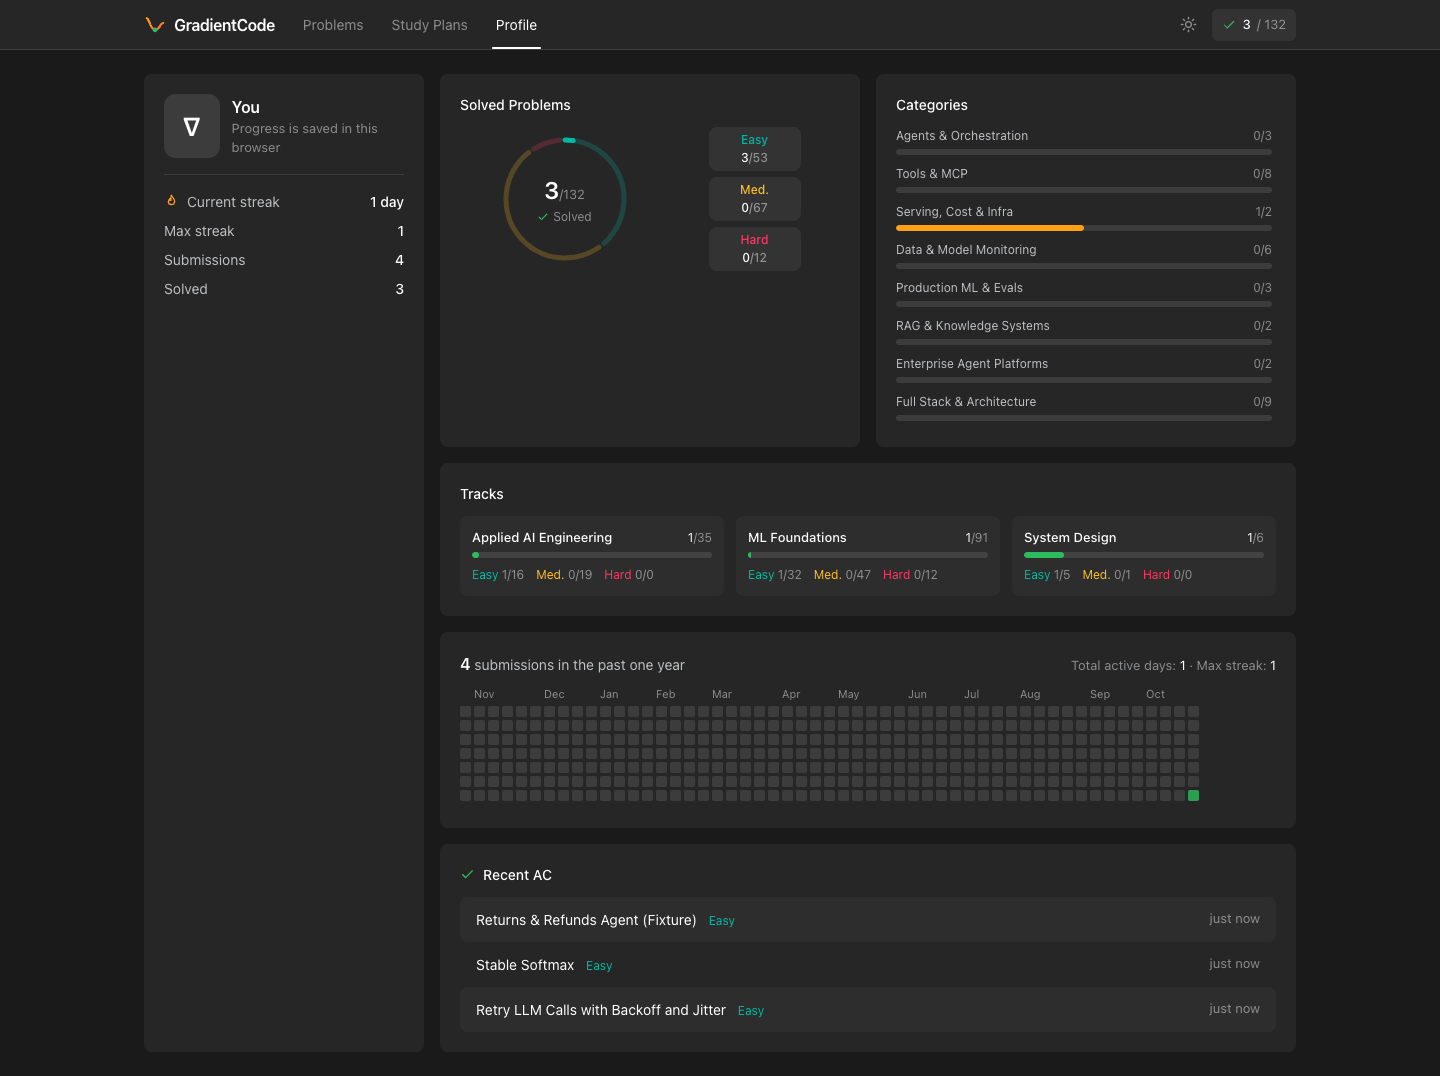
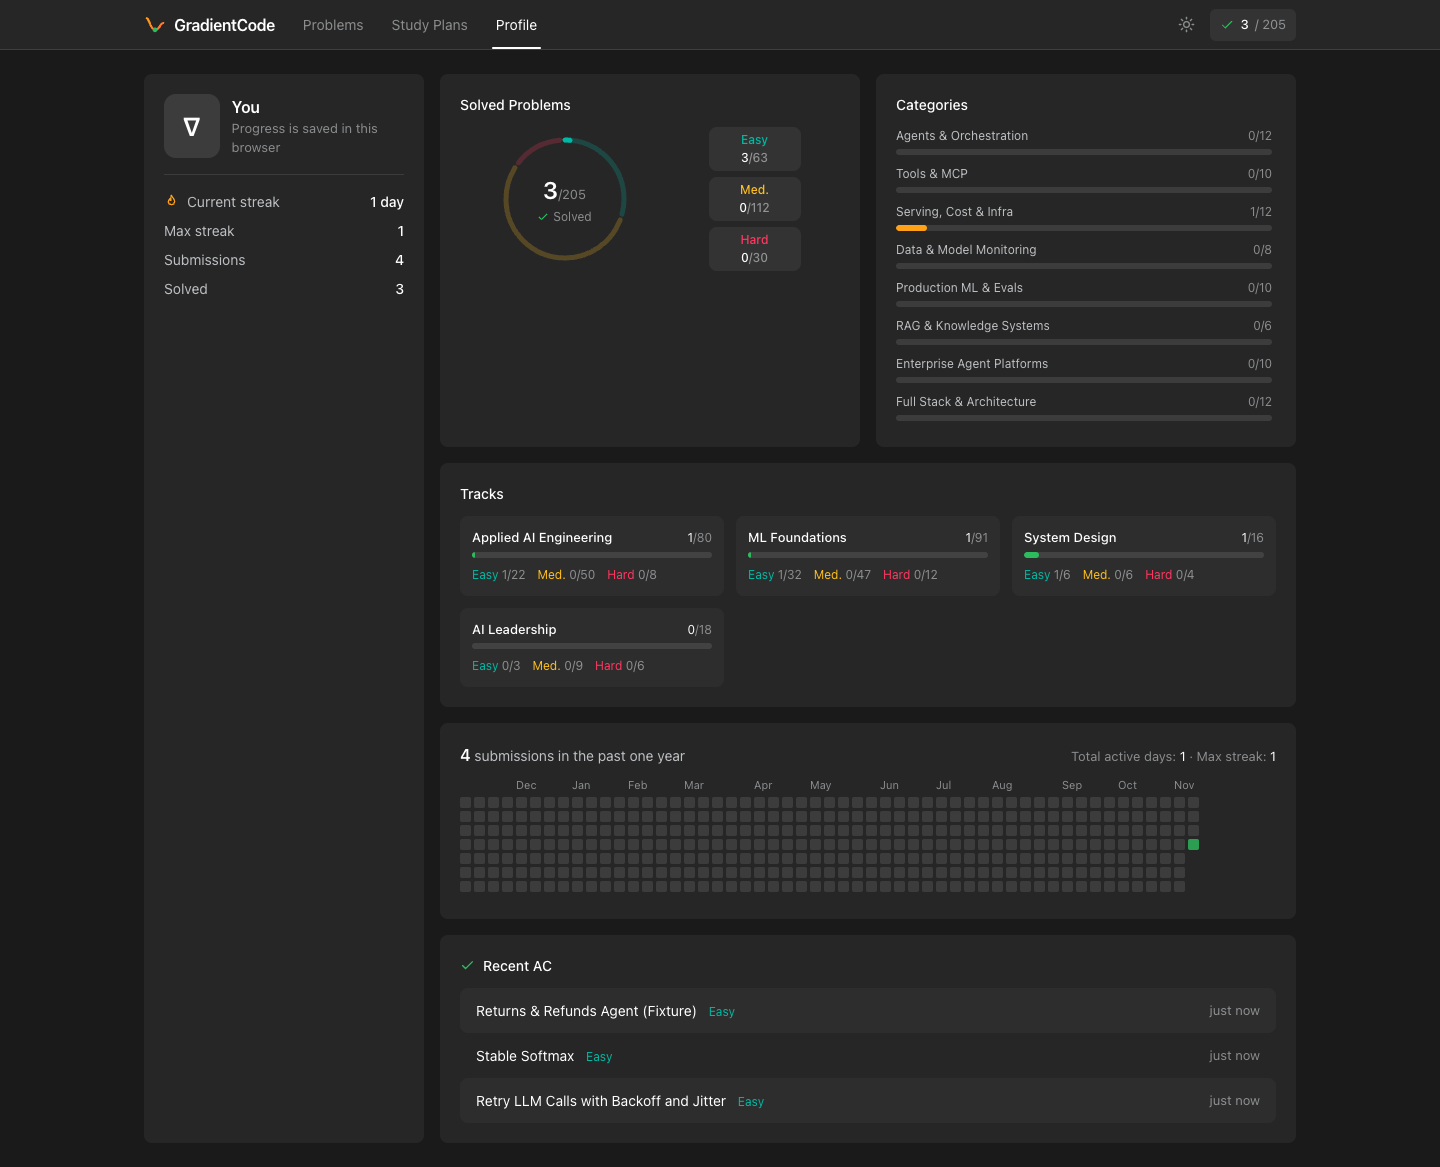
AI Leadership track, phase 3: study plans, catalog, docs, e2e and screenshots
- study-plans.json: Principal / AI Architect Loop (strategy, governance, hard designs) and
  Director / Executive Loop (all 18 cases plus designs 207, 209, 211, 214)
- problems/CATALOG_LEADERSHIP.md; README.md and web/README.md cover the fourth track
- e2e: leadership case (ten sections, pillar names, reveal, 70% complete, solved in list)
  and both study plans; screenshots for the track list, case, reveal and director plan

diff --git a/web/e2e/app.spec.ts b/web/e2e/app.spec.ts
@@ -203,3 +203,54 @@ test("Detailed Explanation tab renders the walkthrough with math", async ({ page
   await expect(page.getByRole("heading", { name: "Detailed Explanation" })).toBeVisible();
   await expect(page.getByRole("heading", { name: "Build Order" })).toBeVisible();
 });
+
+test("AI Leadership track: ten sections, leadership pillars, self-score and complete", async ({ page }) => {
+  const rubric = JSON.parse(readFileSync(resolve(ROOT, "problems/0301-build-buy-fine-tune/rubric.json"), "utf8"));
+  await page.goto("/");
+  await page.getByTestId("track-leadership").click();
+  const rows = page.getByTestId("problem-row");
+  await expect(rows.first()).toBeVisible();
+  // Every leadership case is in the 301-399 range.
+  for (const title of await rows.allTextContents()) expect(title).toMatch(/\b3\d\d\. /);
+
+  await page.goto("/problems/build-buy-fine-tune");
+  await expect(page.getByTestId("problem-title")).toContainText("Build vs Buy vs Fine-tune");
+  await expect(page.locator(".monaco-editor")).toHaveCount(0);
+  await expect(page.getByText("AI Leadership", { exact: true }).first()).toBeVisible();
+  for (const [key, name] of [["A", "Frame"], ["B", "Decide"], ["C", "Execute"], ["D", "Land"]])
+    await expect(page.getByTestId(`pillar-${key}`)).toContainText(name);
+  await expect(page.getByTestId("answer-1")).toHaveAttribute("placeholder", rubric.sections[0].prompt);
+  await expect(page.getByTestId("section-10")).toContainText("Communication");
+  await expect(page.getByTestId("section-11")).toHaveCount(0);
+
+  await page.getByTestId("answer-1").fill("Ship to renewing enterprise customers by month 6 without breaking their contracts.");
+  await page.getByTestId("tab-answer").click();
+  await page.getByTestId("reveal").click();
+  await page.getByTestId("reveal-yes").click();
+  await expect(page.getByTestId("model-answer")).toContainText("1. Situation");
+  await expect(page.getByTestId("model-answer")).toContainText("10. Communication");
+
+  // 70% of criteria completes the case.
+  const all = rubric.sections.flatMap((s: { n: number; criteria: string[] }) => s.criteria.map((_, i) => [s.n, i]));
+  const need = Math.ceil(all.length * 0.7);
+  for (const [n, i] of all.slice(0, need)) await page.getByTestId(`criterion-${n}-${i}`).check();
+  await page.getByTestId("mark-complete").click();
+  await expect(page.getByTestId("complete-note")).toContainText("Marked complete");
+
+  await page.getByTestId("problem-list-link").click();
+  await page.getByTestId("track-leadership").click();
+  const row = page.getByTestId("problem-row").filter({ hasText: "Build vs Buy vs Fine-tune" });
+  await expect(row.getByLabel("Solved")).toBeVisible();
+});
+
+test("leadership study plans list their cases", async ({ page }) => {
+  for (const [id, title, slugs] of [
+    ["principal-architect-loop", "Principal / AI Architect Loop", 13],
+    ["director-executive-loop", "Director / Executive Loop", 22],
+  ] as const) {
+    await page.goto(`/study-plans/${id}`);
+    await expect(page.getByTestId("plan-title")).toContainText(title);
+    await expect(page.getByTestId("plan-section").first()).toBeVisible();
+    await expect(page.locator('[data-testid="plan-section"] a[href*="/problems/"]')).toHaveCount(slugs);
+  }
+});

diff --git a/web/e2e/screenshots.spec.ts b/web/e2e/screenshots.spec.ts
@@ -82,6 +82,23 @@ test("capture", async ({ page, context }) => {
   await page.getByTestId("mark-complete").click();
   await page.screenshot({ path: `${OUT}/design-after-reveal.png` });
 
+  // AI Leadership: the track list, the pilot case before and after reveal, and the director plan.
+  await page.goto("/");
+  await page.getByTestId("track-leadership").click();
+  await expect(page.getByTestId("problem-row").first()).toBeVisible();
+  await page.screenshot({ path: `${OUT}/list-leadership.png` });
+  await page.goto("/problems/build-buy-fine-tune");
+  await page.getByTestId("answer-1").fill("What enterprise customers see by renewal season (month 6), within their contracts.\n\n- Queue: 60M × 28% = **16.8M** a month\n- At stake: **$12M** of renewals");
+  await page.screenshot({ path: `${OUT}/leadership-case.png` });
+  await page.getByTestId("tab-answer").click();
+  await page.getByTestId("reveal").click();
+  await page.getByTestId("reveal-yes").click();
+  await expect(page.getByTestId("model-answer")).toContainText("10. Communication");
+  await page.screenshot({ path: `${OUT}/leadership-after-reveal.png` });
+  await page.goto("/study-plans/director-executive-loop");
+  await expect(page.getByTestId("plan-title")).toBeVisible();
+  await page.screenshot({ path: `${OUT}/study-plan-director.png` });
+
   await page.goto("/study-plans");
   await expect(page.getByTestId("plan-card").first()).toBeVisible();
   await page.screenshot({ path: `${OUT}/study-plans.png` });

diff --git a/problems/CATALOG_LEADERSHIP.md b/problems/CATALOG_LEADERSHIP.md
@@ -1,0 +1,49 @@
+# AI Leadership catalog (ids 301–318)
+
+AI Leadership cases are interview prep for principal engineers, AI architects, directors and executives. They reuse the design workspace: a timer, a hidden model answer, and a self-scored rubric where checking 70% completes the case. Answers use ten sections under four pillars:
+
+| Pillar | Sections |
+|---|---|
+| A. Frame | 1 Situation · 2 Stakeholders |
+| B. Decide | 3 Options · 4 Decision and Trade-offs · 5 Economics |
+| C. Execute | 6 Org and Ownership · 7 Plan and Milestones · 8 Risk and Governance |
+| D. Land | 9 Metrics · 10 Communication |
+
+Difficulty:
+- **Easy:** one team.
+- **Medium:** cross-org.
+- **Hard:** exec or board level, with regulators or a reorg.
+
+See [AUTHORING_LEADERSHIP.md](../AUTHORING_LEADERSHIP.md) to write a new case.
+
+## lead-strategy (Strategy & Portfolio)
+- 0301 build-buy-fine-tune (Medium): an accounting SaaS has 16.8M transactions a month to categorize by hand, with $12M of renewals 6 months out. Its enterprise contracts forbid training on customer data and require notice before adding a sub-processor.
+- 0302 ai-roadmap-business-unit (Medium): a 12-month AI roadmap for a $640M contractor-sales unit of an industrial distributor. Six leaders each want something, and an ERP freeze blocks anything that writes quotes or orders in months 4–9.
+- 0303 ai-portfolio-roi (Medium): a wireless carrier's AI council gets eight proposals claiming $39M a year. The limit is data-engineer time on customer data, not money.
+- 0304 kill-or-scale-pilot (Easy): an AI leasing assistant at an apartment manager missed its target, and only the after-hours effect is real. Legal has fair-housing findings, and half the team leaves in 8 weeks.
+- 0305 platform-vs-embedded-teams (Hard): a five-business classifieds group with 150 embedded AI staff has had a data leak and has 90 days to satisfy its audit committee. The largest unit can't move anyone before its launch.
+
+## lead-org (Org & People)
+- 0306 design-ai-org-40 (Hard): 40 AI people across four reporting lines at an electric and gas utility, with a utility commission review in 9 months. Headcount is frozen, and validators must be independent of the builders.
+- 0307 ai-hiring-plan-leveling (Medium): 12 AI hires for a K-12 learning platform on a fixed budget, against a back-to-school launch. Any AI pay premium must also cover internal transfers.
+- 0308 low-performer-critical-project (Easy): a senior engineer at 36% of plan on a 900-location restaurant chain's onboarding, with a $4.8M contract and SLA credits at risk. They hold the only knowledge of the go-live harness, and nothing is documented yet.
+- 0309 retaining-principal-engineer (Easy): an email-security company's principal ML engineer has an offer for $520k against $360k and 10 days to answer. The pay committee meets in 6 weeks, and she alone knows the model refresh due in 10.
+
+## lead-governance (Risk & Governance)
+- 0310 ai-governance-operating-model (Hard): a European life and health insurer with 212 AI systems, 72 of them unknown to the centre. The supervisor's review is 6 months out, and the countries won't wait in a central queue.
+- 0311 hallucination-incident-response (Medium): on day 3 of open enrollment, a benefits assistant is giving wrong dependent-eligibility answers. Switching it off would swamp the contact center, and sales wants to tell only the customer who complained.
+- 0312 model-risk-signoff (Hard): a consumer lender with a bank charter has six GenAI use cases worth $21M stuck behind independent validation, and the validators have only 500 free hours.
+- 0313 vendor-concentration-exit-plan (Hard): an EU payment institution sends 92% of its LLM traffic to one provider. The board requires a 90-day exit, but the CFO has booked a discount that needs a larger commitment to that same provider.
+
+## lead-comms (Communication & Influence)
+- 0314 board-update-ai-spend (Hard): a listed retailer's AI spend is forecast at $24.6M against an $18M plan, and the CFO's margin guidance has 10 bp of cushion. You have 10 minutes with the board.
+- 0315 pushing-back-ceo-deadline (Medium): a freight brokerage CEO plans to announce autonomous booking for all shippers in 8 weeks, but carrier vetting needs 10 weeks from signature.
+- 0316 explaining-eval-regression (Medium): a privacy-required change cut a fraud model's recall from 33/40 to 29/40 while accuracy rose. Rolling back is illegal, and the sample is small.
+- 0317 influence-without-authority-stories (Medium): a story bank built on an online grocer whose substitution rejections come from another VP's catalog data. That VP has said no twice.
+- 0318 conflict-and-failure-stories (Medium): a STAR story bank built on an online travel agency's rebooking assistant, which made 2,480 wrong rebookings in 9 days. Includes a scope check per level, from senior engineer to executive.
+
+## Study plans
+
+`problems/study-plans.json` has two plans for this track:
+- **Principal / AI Architect Loop:** the five strategy cases, the four governance cases and the four Hard system designs (212–215).
+- **Director / Executive Loop:** all 18 cases, plus four designs: 207 llm-gateway-cost-controls, 209 agent-eval-observability, 211 shared-ai-coworker-platform and 214 self-hosted-llm-serving.

diff --git a/README.md b/README.md
@@ -1,10 +1,11 @@
 # GradientCode
 
-GradientCode is a practice site for AI and ML engineering interviews. It looks and works like LeetCode, and has three tracks:
+GradientCode is a practice site for AI and ML engineering and leadership interviews. It looks and works like LeetCode, and has four tracks:
 
 - **Applied AI Engineering**: agents, tools and MCP, gateways, RAG, monitoring and enterprise platforms. Problems are graded against deterministic fakes in `harness/gc_runtime.py`, such as a fake LLM, a virtual clock and an event loop.
 - **ML Foundations**: NumPy implementations of classic ML, neural network layers, optimizers, autograd, transformers and LLM internals.
 - **System Design**: fifteen-section design answers with a timer, a hidden model answer and a self-scoring rubric.
+- **AI Leadership**: eighteen cases for principal, architect, director and executive loops (strategy, org, governance and communication). They use the same workspace with a ten-section framework: Situation, Stakeholders, Options, Decision and Trade-offs, Economics, Org and Ownership, Plan and Milestones, Risk and Governance, Metrics, Communication.
 
 Everything runs in the browser. Code problems run in Python 3 through Pyodide, and progress is saved in localStorage. There is no server.
 
@@ -27,18 +28,20 @@ The live site is https://gradient.appres.ai, a Cloudflare Pages project named `g
 3. **Run** judges the visible cases plus any custom cases you add. **Submit** judges every case and stops at the first failure. Floats are compared with the problem's `rtol` and `atol`. A problem can supply its own checker when more than one answer is valid.
 4. The page gives each judge call a wall-clock budget. If your code is still running when the budget runs out, the worker is killed and you get Time Limit Exceeded.
 
-Design problems have no judge. You write each section, reveal the model answer, and check off the rubric criteria you covered. Checking at least 70% of them lets you mark the problem complete.
+Design problems and leadership cases have no judge. You write each section, reveal the model answer, and check off the rubric criteria you covered. Checking at least 70% of them lets you mark the problem complete.
 
 ## Adding a problem
 
 - For a coding problem, read [AUTHORING.md](AUTHORING.md).
 - For a design problem, read [AUTHORING_DESIGN.md](AUTHORING_DESIGN.md).
+- For a leadership case, read [AUTHORING_LEADERSHIP.md](AUTHORING_LEADERSHIP.md).
+- For the Detailed Explanation tab every problem needs, read [WALKTHROUGH.md](WALKTHROUGH.md).
 
 Check a problem with `python3 scripts/check.py <id>`, then run `python3 scripts/build.py`, or restart `pnpm dev`. Study plans live in `problems/study-plans.json`. Slugs that aren't built yet are skipped.
 
 ## Repo layout
 
-- `problems/`: one folder per problem, the catalogs, and the study plans
+- `problems/`: one folder per problem (ids 1–99 ML, 101–199 Applied, 201–299 Design, 301–399 Leadership), the catalogs, and the study plans
 - `harness/`: the judge (`harness.py`) and the simulation fakes (`gc_runtime.py`). Both run in CPython and Pyodide.
 - `scripts/`: `build.py` and `check.py`
 - `web/`: the site (Vite, React, TypeScript, Tailwind, Monaco). See [web/README.md](web/README.md).

diff --git a/web/README.md b/web/README.md
@@ -24,7 +24,7 @@ pnpm e2e                                  # starts the dev server if it is not r
 SCREENSHOTS=1 pnpm exec playwright test screenshots   # refresh web/screenshots/
 ```
 
-The first test that judges code waits for Pyodide and NumPy to download from the jsDelivr CDN. Give it up to a minute on a cold cache. The design-problem test serves `e2e/fixtures/design-fixture.json` through request interception, so it does not depend on which design problems are built.
+The first test that judges code waits for Pyodide and NumPy to download from the jsDelivr CDN. Give it up to a minute on a cold cache. The design-problem test serves `e2e/fixtures/design-fixture.json` through request interception, so it does not depend on which design problems are built. The leadership test opens the real case 301 and checks its ten sections and four pillars.
 
 ## Layout
 
@@ -32,4 +32,5 @@ The first test that judges code waits for Pyodide and NumPy to download from the
 - `src/lib/judge.ts`: the main-thread client. It gives each judge call a wall-clock budget of `max(8000, cases × time_limit_ms)` ms. When a call runs past it, the client terminates the worker, reports Time Limit Exceeded and starts a fresh worker.
 - `src/lib/format.ts`: a TypeScript copy of `harness.show`, so examples render before Python loads.
 - `src/lib/storage.ts`: progress in localStorage (`gc:drafts:<slug>`, `gc:subs:<slug>`, `gc:solved`, `gc:attempted`, `gc:design:<slug>`, `gc:theme`, `gc:track`).
-- `src/pages/ProblemPage.tsx`: the coding workspace. `src/components/DesignWorkspace.tsx` is the system design workspace.
+- `src/pages/ProblemPage.tsx`: the coding workspace. `src/components/DesignWorkspace.tsx` is the rubric workspace shared by System Design and AI Leadership. It renders whatever sections the problem's `rubric.json` lists, and takes pillar names and the badge from the problem's track.
+- `src/lib/data.ts`: loads the index. `RUBRIC_TRACKS` lists the tracks whose problems are self-scored (`design`, `leadership`).
